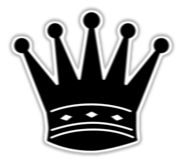
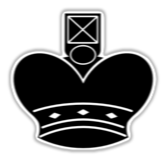
Implemented highlighting

diff --git a/ChessMiester/src/gui/gameboard/CenterPaneGUI.java b/ChessMiester/src/gui/gameboard/CenterPaneGUI.java
@@ -145,10 +145,10 @@ public class CenterPaneGUI implements GameBoardObserver, EventHandler<MouseEvent
         url = new File("src/gui/gameboard/images/WhiteBishop.png").toURI()
                 .toURL().toExternalForm();
         Image whiteBishopImage = new Image(url);
-        url = new File("src/gui/gameboard/images/WhiteQueen.png").toURI()
+        url = new File("src/gui/gameboard/images/WhiteKing.png").toURI()
                 .toURL().toExternalForm();
         Image whiteQueenImage = new Image(url);
-        url = new File("src/gui/gameboard/images/WhiteKing.png").toURI()
+        url = new File("src/gui/gameboard/images/WhiteQueen.png").toURI()
                 .toURL().toExternalForm();
         Image whiteKingImage = new Image(url);
         url = new File("src/gui/gameboard/images/WhiteKnightRight.png").toURI()
@@ -163,10 +163,10 @@ public class CenterPaneGUI implements GameBoardObserver, EventHandler<MouseEvent
         url = new File("src/gui/gameboard/images/BlackBishop.png").toURI()
                 .toURL().toExternalForm();
         Image blackBishopImage = new Image(url);
-        url = new File("src/gui/gameboard/images/BlackQueen.png").toURI()
+        url = new File("src/gui/gameboard/images/BlackKing.png").toURI()
                 .toURL().toExternalForm();
         Image blackQueenImage = new Image(url);
-        url = new File("src/gui/gameboard/images/BlackKing.png").toURI()
+        url = new File("src/gui/gameboard/images/BlackQueen.png").toURI()
                 .toURL().toExternalForm();
         Image blackKingImage = new Image(url);
         url = new File("src/gui/gameboard/images/BlackKnightRight.png").toURI()
@@ -269,10 +269,10 @@ public class CenterPaneGUI implements GameBoardObserver, EventHandler<MouseEvent
         SquareGUI clickedSquare = (SquareGUI) event.getSource(); //TODO integrate highlighting.
         if (clickedSquare.getPiece().getImage() != null) {
             PieceGUI piece = (PieceGUI) clickedSquare.getPiece();
-            //List<Position> validMoves = piece.getMoveType().getValidMoves(squares, clickedSquare.getPosition());
-            //for (Position position : validMoves) {
-            //    squares[position.getRank().getIndex()][position.getFile().getFileNum()].highlight();
-            //}
+            List<Position> validMoves = piece.getMoveType().getValidMoves(this, clickedSquare.getPosition());
+            for (Position position : validMoves) {
+               squares[position.getRank().getIndex()][position.getFile().getFileNum()].highlight();
+            }
 
         }
     }
@@ -313,6 +313,7 @@ public class CenterPaneGUI implements GameBoardObserver, EventHandler<MouseEvent
         return squares[row][col].getPiece();
     }
 
+    //All memento stuff
     @Override
     public void addMove(GameColor color, Files fromF, Rank fromR, Files toF, Rank toR) {
 

diff --git a/ChessMiester/src/movements/BishopMovement.java b/ChessMiester/src/movements/BishopMovement.java
@@ -83,7 +83,9 @@ public class BishopMovement extends BlackAndWhite implements MovementIF{
 
             PieceIF currPiece = currSquare.getPiece(); // get piece on current square
 
-            if(currSquare.getPiece() == null){ // if the square is empty
+            if(currSquare.getPiece() == null || currSquare.getPiece().getImage() == null){ // if
+                // the square is
+                // empty
                 validMovesUpRight.add(currSquare.getPosition());
             }
             else if(!currPiece.getColor().equals(getColor())){ // if the piece is an enemy piece
@@ -121,7 +123,7 @@ public class BishopMovement extends BlackAndWhite implements MovementIF{
 
             PieceIF currPiece =  currSquare.getPiece(); // get piece on current square
 
-            if (currSquare.getPiece() == null) { // if the square is empty
+            if (currSquare.getPiece() == null || currSquare.getPiece().getImage() == null) { // if the square is empty
                 validMovesUpLeft.add(currSquare.getPosition());
             } else if (!currPiece.getColor().equals(getColor())) {
                 validMovesUpLeft.add(currSquare.getPosition());
@@ -157,7 +159,7 @@ public class BishopMovement extends BlackAndWhite implements MovementIF{
 
             PieceIF currPiece = currSquare.getPiece(); // get piece on current square
 
-            if (currSquare.getPiece() == null) { // if the square is empty
+            if (currSquare.getPiece() == null || currSquare.getPiece().getImage() == null) { // if the square is empty
                 validMovesDownRight.add(currSquare.getPosition());
             } else if (!currPiece.getColor().equals(getColor())) { // if the piece is enemy piece
                 validMovesDownRight.add(currSquare.getPosition());
@@ -193,7 +195,7 @@ public class BishopMovement extends BlackAndWhite implements MovementIF{
 
             PieceIF currPiece = currSquare.getPiece(); // get piece on current square
 
-            if(currSquare.getPiece() == null){ // if the square is empty
+            if(currSquare.getPiece() == null || currSquare.getPiece().getImage() == null){ // if the square is empty
                 validMovesDownLeft.add(currSquare.getPosition());
             }
             else if(!currPiece.getColor().equals(getColor())){ // if the piece is an enemy piece

diff --git a/ChessMiester/src/uicli/PlayMoveCLI.java b/ChessMiester/src/uicli/PlayMoveCLI.java
@@ -905,7 +905,8 @@ public class PlayMoveCLI implements PlayIF {
                 }
                 //check if there is a piece in the way
                 if (board.getSquares()[fromR.getIndex()]
-                        [tempF.getFileNum()].getPiece() != null) {
+                        [tempF.getFileNum()].getPiece() != null || board.getSquares()[fromR.getIndex()]
+                        [tempF.getFileNum()].getPiece().getImage() != null) {
                     canCastle = false;
                     //flag = false;
                 }
@@ -923,7 +924,8 @@ public class PlayMoveCLI implements PlayIF {
                 }
                 //check if there is a piece in the way
                 if (board.getSquares()[fromR.getIndex()]
-                        [tempF.getFileNum()].getPiece() != null) {
+                        [tempF.getFileNum()].getPiece() != null || board.getSquares()[fromR.getIndex()]
+                        [tempF.getFileNum()].getPiece().getImage() != null) {
                     canCastle = false;
                 }
                 tempF = Files.values()[tempF.getFileNum() - 1];

diff --git a/ChessMiester/src/tutorialuicli/TutorialCLI.java b/ChessMiester/src/tutorialuicli/TutorialCLI.java
@@ -7,6 +7,7 @@ import enums.GameColor;
 import enums.Rank;
 import interfaces.BoardIF;
 import interfaces.FirstMoveIF;
+import interfaces.PieceIF;
 import interfaces.SettingsIF;
 import model.Board;
 import model.BoardSaverLoader;
@@ -170,7 +171,9 @@ public class TutorialCLI {
             Files randFile = getRandomFile(); // get random file
             Rank randRank = getRandomRank(); // get random rank
             // check to make sure it's a dark tile and it's empty
-            if(board.getSquares()[randRank.getIndex()][randFile.getFileNum()].getPiece() == null){
+            PieceIF temp =
+                    board.getSquares()[randRank.getIndex()][randFile.getFileNum()].getPiece();
+            if(temp == null || temp.getImage() == null){
                 //wlog, a1, a3, a5, a7 are dark tiles
                 if ((randFile.equals(Files.A) || randFile.equals(Files.C) ||
                         randFile.equals(Files.E) || randFile.equals(Files.G))){

diff --git a/ChessMiester/src/gui_backend/PieceGUI.java b/ChessMiester/src/gui_backend/PieceGUI.java
@@ -91,8 +91,8 @@ public class PieceGUI extends ImageView implements PieceIF {
             case("Queen") -> type = ChessPieceType.Queen;
             case("Rook") -> type = ChessPieceType.Rook;
         }
-        moveTypeFactory();
         setColor();
+        moveTypeFactory();
     }
 
     /**
@@ -118,8 +118,8 @@ public class PieceGUI extends ImageView implements PieceIF {
         int lastChar = path.lastIndexOf('/') + 6;
         path = path.substring(lastSlash, lastChar);
         switch(path){
-            case("Black") -> this.color = GameColor.WHITE;
-            case("White") -> this.color = GameColor.BLACK;
+            case("Black") -> this.color = GameColor.BLACK;
+            case("White") -> this.color = GameColor.WHITE;
         }
     }
 

diff --git a/ChessMiester/src/movements/PawnMovement.java b/ChessMiester/src/movements/PawnMovement.java
@@ -83,9 +83,10 @@ public class PawnMovement extends BlackAndWhite implements MovementIF, FirstMove
             moveRank = place.getRank().getIndex();
             moveFile = place.getFile().getFileNum();
             pieceInPos = board.getSquares()[moveRank][moveFile].getPiece(); // this will be null if there is no piece
-            if (pieceInPos != null) {   // if there is a piece where we are going
-                validMove = place;
+            if (pieceInPos == null || pieceInPos.getImage() == null) {   // if there is a piece where we are going
+                return validMove;
             }
+            validMove = place;
         }
         return validMove;
     }

diff --git a/ChessMiester/src/movements/KnightMovement.java b/ChessMiester/src/movements/KnightMovement.java
@@ -82,7 +82,7 @@ public class KnightMovement extends BlackAndWhite implements MovementIF {
                                                               [currentFile + file];
             PieceIF currentPiece = currentSquare.getPiece();
             //check if there is an empty square or an enemy piece
-            if (currentPiece == null || !currentPiece.getColor().equals(getColor())) {
+            if (currentPiece == null || currentPiece.getImage() == null || !currentPiece.getColor().equals(getColor())) {
                 //the move is possible so add it
                 movePossible = currentSquare.getPosition();
             }

diff --git a/ChessMiester/src/interfaces/MovementIF.java b/ChessMiester/src/interfaces/MovementIF.java
@@ -46,7 +46,7 @@ public interface MovementIF extends BlackAndWhiteIF{
                     [currentFile + file];
             PieceIF currentPiece = currentSquare.getPiece();
             //check if there is an empty square or an enemy piece1
-            if (currentPiece == null || capture && !currentPiece.getColor().equals(getColor())) {
+            if (currentPiece == null || currentPiece.getImage() == null || capture && !currentPiece.getColor().equals(getColor())) {
                 //the move is possible so add it
                 movePossible = currentSquare.getPosition();
             }

diff --git a/ChessMiester/src/gui/tutorial/KingTutorialGUI.java b/ChessMiester/src/gui/tutorial/KingTutorialGUI.java
@@ -94,7 +94,7 @@ public class KingTutorialGUI {
     private void addImage() {
         try{
             Image king = new Image(new FileInputStream(
-                    "src/gui/gameboard/images/WhiteKing.png"));
+                    "src/gui/gameboard/images/WhiteQueen.png"));
             ImageView kingView = new ImageView(king);
             kingView.setFitHeight(100);
             kingView.setFitWidth(100);

diff --git a/ChessMiester/src/gui/tutorial/QueenTutorialGUI.java b/ChessMiester/src/gui/tutorial/QueenTutorialGUI.java
@@ -37,7 +37,7 @@ public class QueenTutorialGUI {
 
         try{
             Image queen = new Image(new FileInputStream(
-                    "src/gui/gameboard/images/WhiteQueen.png"));
+                    "src/gui/gameboard/images/WhiteKing.png"));
             ImageView queenView = new ImageView(queen);
             queenView.setFitHeight(100);
             queenView.setFitWidth(100);
